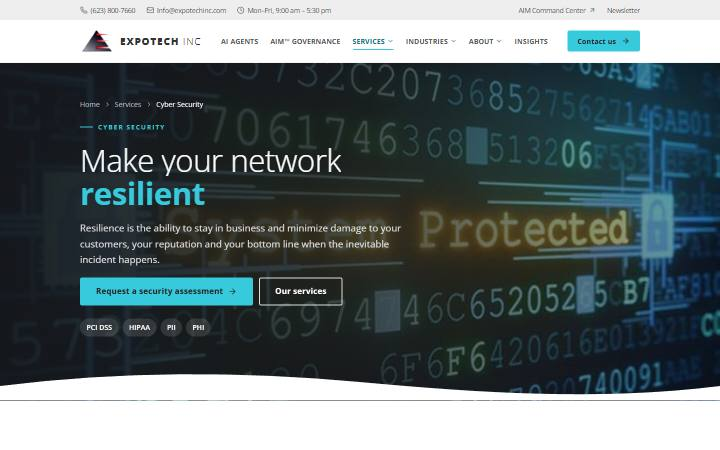
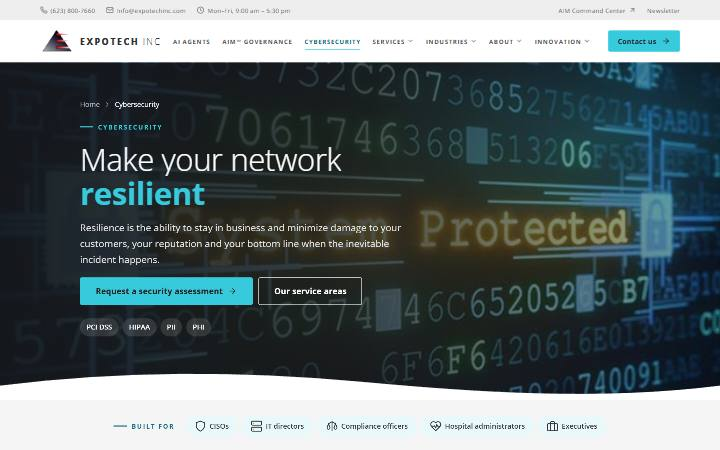
Review index, README and previews for the new pages
- pages.html lists the Innovation Center and the three book pages
- Fresh preview images for the homepage, Innovation Center,
  Cybersecurity and the book pages
- README describes the Innovation Center, book pages and the
  Cybersecurity page

diff --git a/pages.html b/pages.html
@@ -165,9 +165,51 @@
                 />
               </div>
               <div class="meta">
-                <strong>Innovation</strong
+                <strong>Innovation Center</strong
                 ><span class="small muted"
-                  >Books, filterable downloads, blog signup</span
+                  >Books, patent catalog, research, case studies</span
+                >
+              </div></a
+            >
+            <a class="review-card" href="book-the-last-command.html"
+              ><div class="zoom">
+                <img
+                  src="assets/img/previews/book-the-last-command.jpg"
+                  alt="The Last Command book page preview"
+                />
+              </div>
+              <div class="meta">
+                <strong>Book · The Last Command</strong
+                ><span class="small muted"
+                  >Coming soon, what the book covers</span
+                >
+              </div></a
+            >
+            <a class="review-card" href="book-cloud-computing.html"
+              ><div class="zoom">
+                <img
+                  src="assets/img/previews/book-cloud-computing.jpg"
+                  alt="Cloud Computing book page preview"
+                />
+              </div>
+              <div class="meta">
+                <strong>Book · Cloud Computing… Commoditizing IT</strong
+                ><span class="small muted"
+                  >Published, with the cloud guide</span
+                >
+              </div></a
+            >
+            <a class="review-card" href="book-wireless-dawn.html"
+              ><div class="zoom">
+                <img
+                  src="assets/img/previews/book-wireless-dawn.jpg"
+                  alt="The Wireless Dawn book page preview"
+                />
+              </div>
+              <div class="meta">
+                <strong>Book · The Wireless Dawn</strong
+                ><span class="small muted"
+                  >Published, linked to the patent</span
                 >
               </div></a
             >

diff --git a/README.md b/README.md
@@ -3,7 +3,9 @@
 Static HTML/CSS/JS redesign of expotechinc.com, keeping the current typography and palette (Open Sans, #37cadd teal, grey).
 
 - `index.html`: homepage. `home-dark.html` and `home-classic.html` are alternative homepage directions.
-- `innovation.html`: the Innovation Center (books, patents, downloads). `insights.html` redirects there on Vercel (`vercel.json`).
+- `innovation.html`: the Innovation Center (books, searchable patent catalog, research, case studies, articles). `insights.html` redirects there on Vercel (`vercel.json`).
+- `book-*.html`: detail pages for the three books.
+- `cyber-security.html`: Cybersecurity, organized in four service areas.
 - `pages.html`: index of every page, for review.
 - `assets/css/style.css`: shared design system and animations.
 - `assets/js/main.js`: global header and footer, scroll reveals, counters, tabs, the AIM™ lifecycle stepper and the zoomable image viewer.
